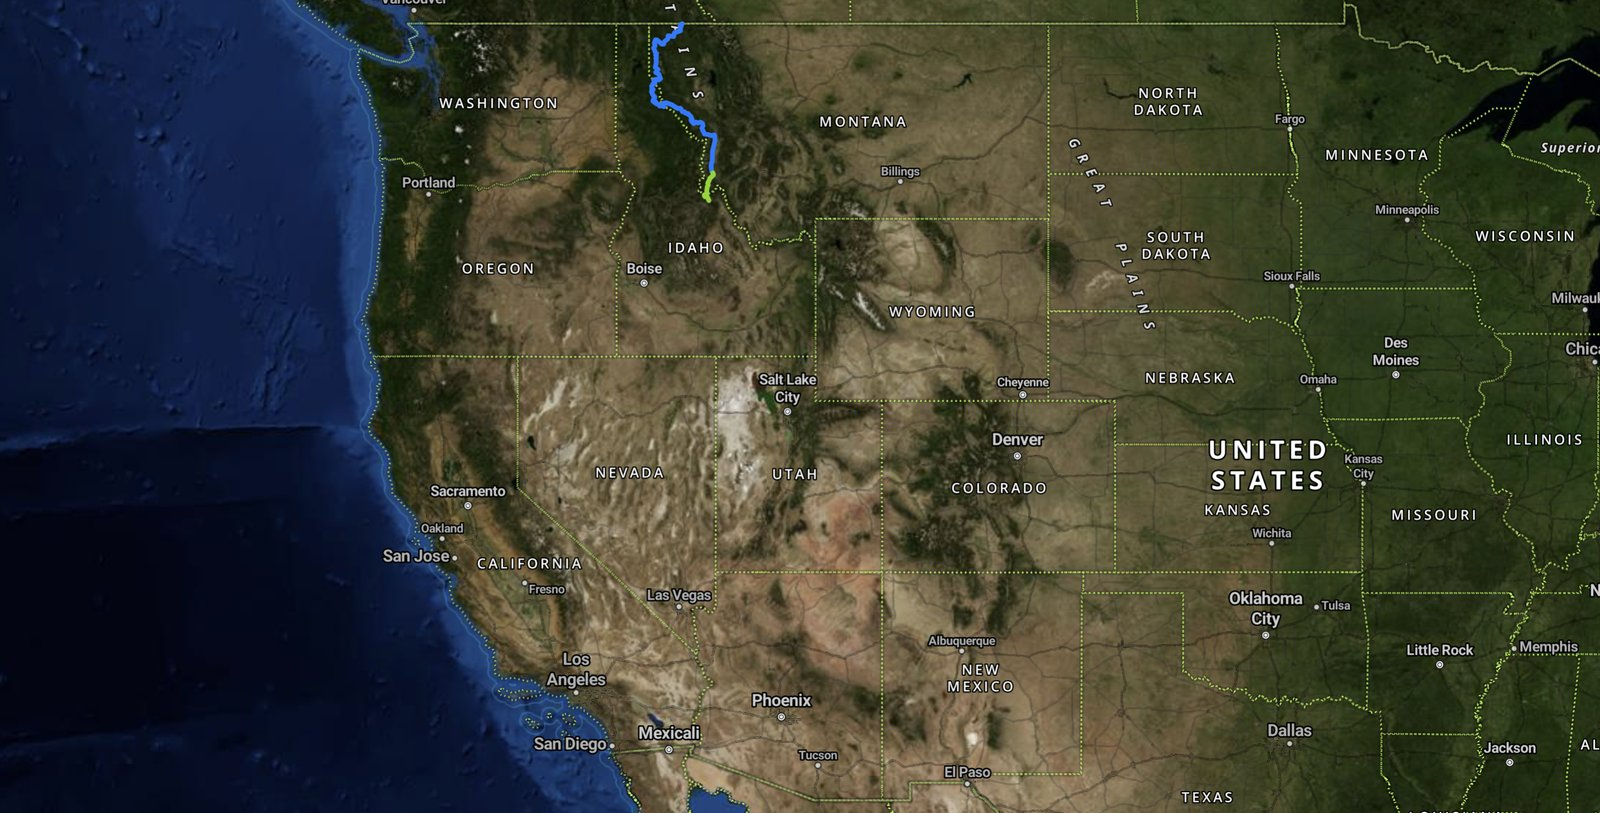
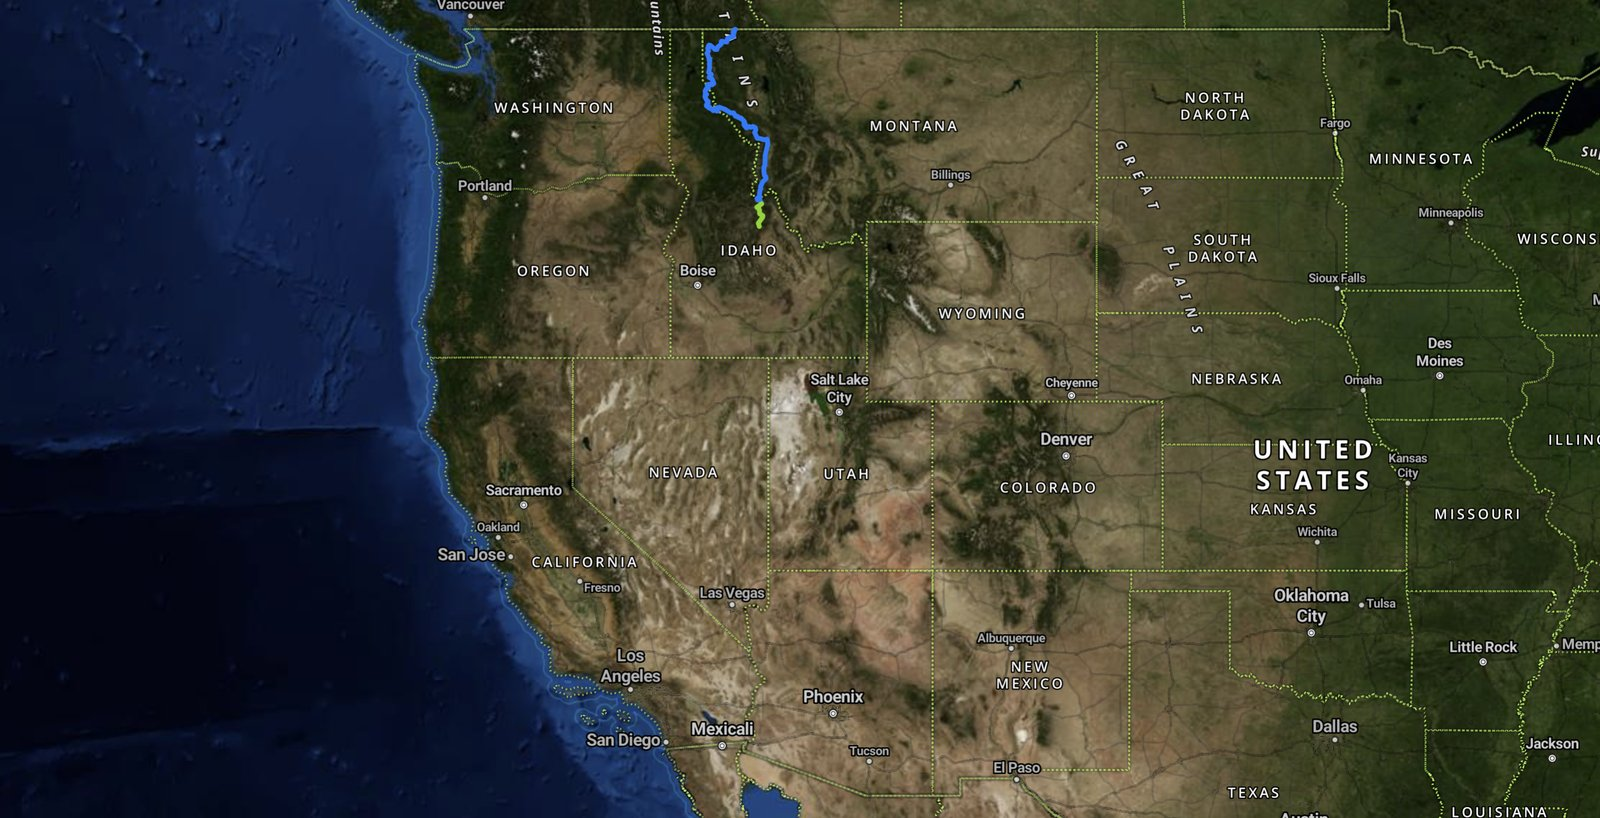
Progress map through day 11

diff --git a/rick/data.js b/rick/data.js
@@ -79,7 +79,7 @@ const LOCATION = {lat:44.90452, lng:-114.32666, town:"Upper Panther Creek", stat
 const STATUS = "Day 11 is done: 49 miles from Spring Creek Campground, down the Salmon River and then a long steady climb up Panther Creek from 3,210 ft to 6,529 ft, 3,506 ft of gain with almost no descent. Camped high on the creek a few miles below the divide to Morgan Creek, which sets up the drop toward Challis tomorrow. Four days ahead of the re-timed plan on segment 3 to Hailey.";
 // Cover photo for the top of the tracker page (file name without .jpg, from rick/photos/). Use a wide crop; the bottom third fades into the page.
 // Zoomed-out map of the whole West with Rick's track so far (screenshot from the Windy/onX view). Re-shoot every few days, overwrite the same file, update asOf.
-const PROGRESS_MAP = {file:"wwr-progress-map", asOf:"Sept 15, 2026, end of day 10", caption:"Blue and green at the top is Rick's track so far, Roosville to the Salmon River in Idaho, with today's ride over Horse Creek Pass in green. The route runs south through Idaho, Utah and Arizona to the Mexican border at Sierra Vista."};
+const PROGRESS_MAP = {file:"wwr-progress-map", asOf:"Sept 16, 2026, end of day 11", caption:"Blue and green at the top is Rick's track so far, Roosville to upper Panther Creek in central Idaho, with today's ride in green. The route runs south through Idaho, Utah and Arizona to the Mexican border at Sierra Vista."};
 const COVER = "2026-09-06-roosville-start-cover";
 
 // Photos: file names live in rick/photos/. Add the full-size jpg plus a -thumb.jpg. Newest first.
@@ -134,5 +134,5 @@ const PHOTOS = [
   {file:"2026-09-06-koocanusa-bridge", date:"2026-09-06", time:"13:36", caption:"Day 1. The Lake Koocanusa bridge from the road above, the longest bridge in Montana, over the Kootenai River backed up behind Libby Dam."},
   {file:"2026-09-06-roosville-start", date:"2026-09-06", time:"10:02", caption:"Day 1. Rick and the loaded bike at the Roosville border crossing, ready to roll south."},
 ];
-const LAST_UPDATED = "Sept 16, 2026, 9:52 pm MT";
+const LAST_UPDATED = "Sept 16, 2026, 9:56 pm MT";
 // ===== END DATA =====
